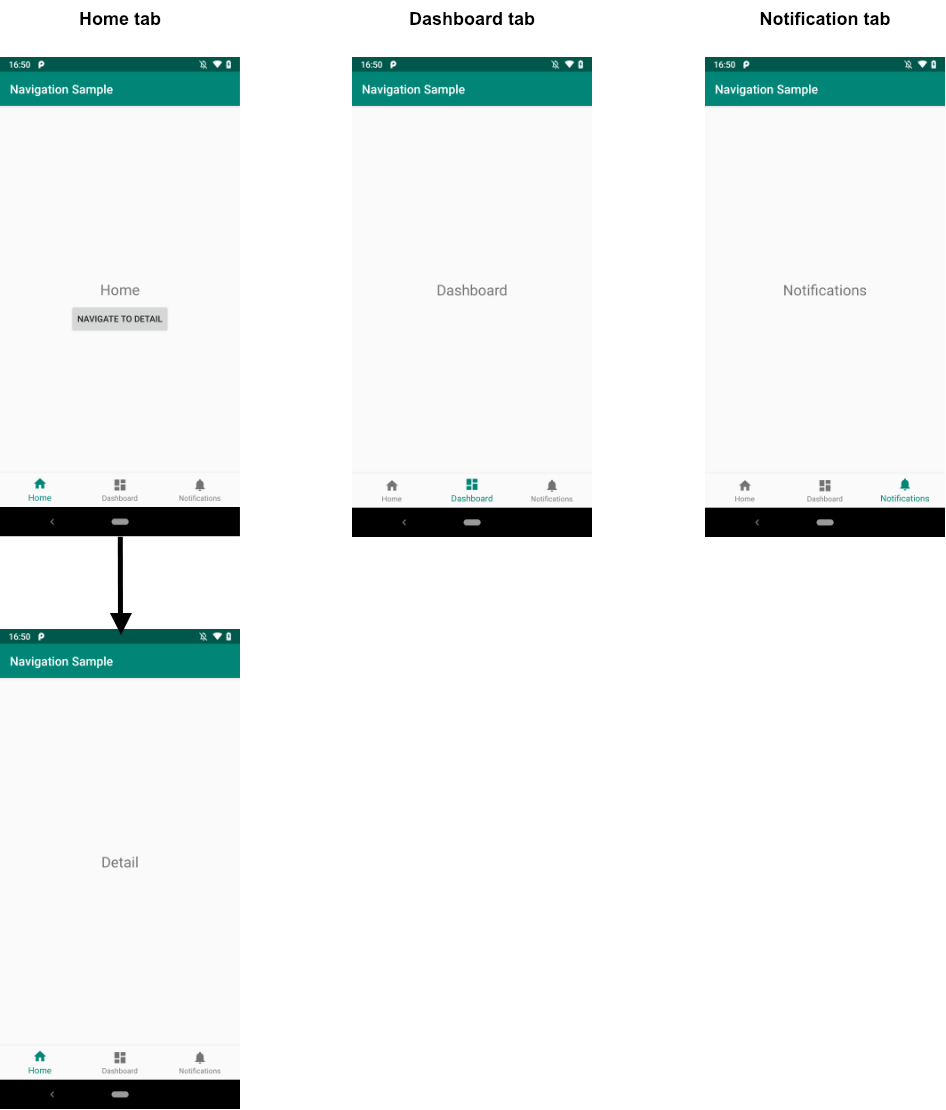
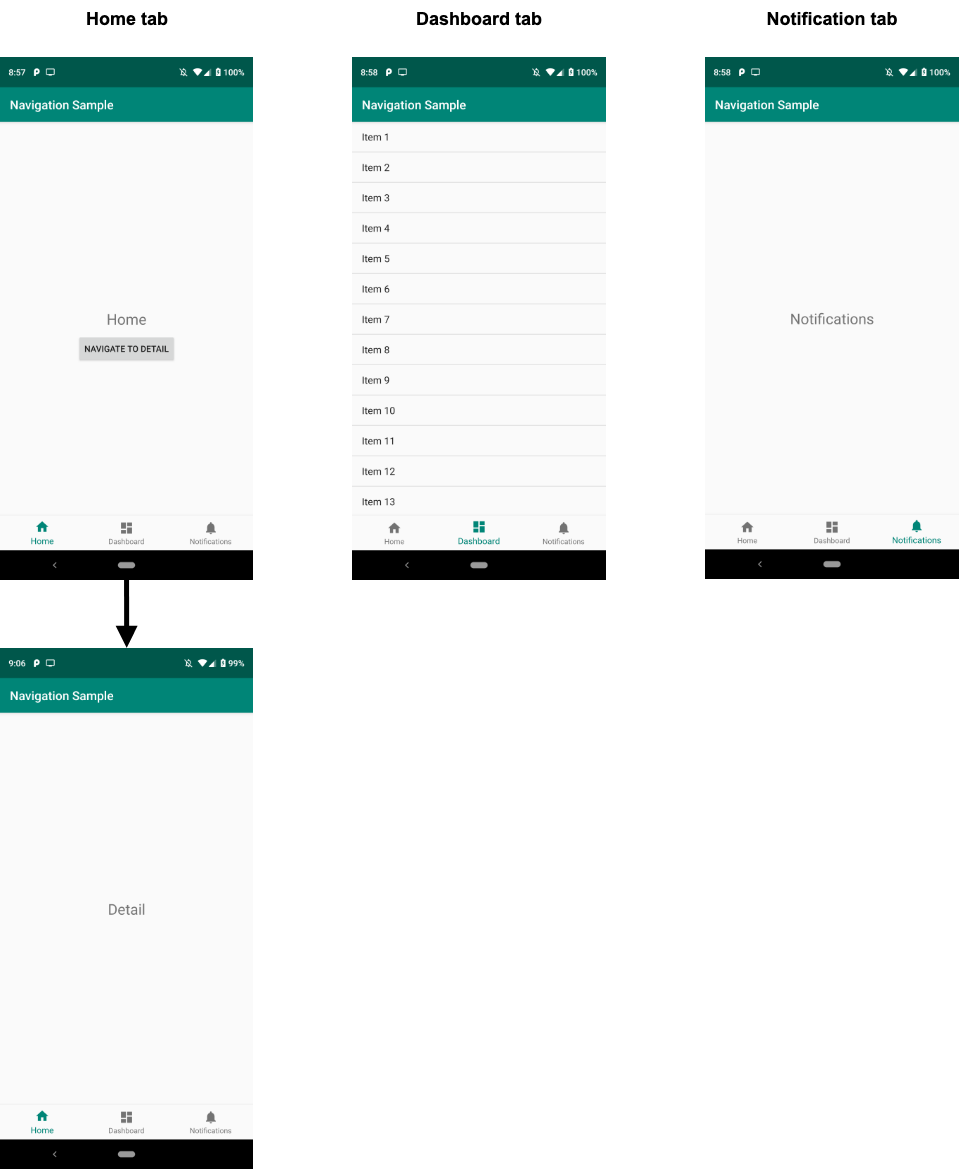
Add RecyclerView sample

diff --git a/app/src/main/java/com/star_zero/navigation_keep_fragment_sample/DashboardAdapter.kt b/app/src/main/java/com/star_zero/navigation_keep_fragment_sample/DashboardAdapter.kt
@@ -1,0 +1,36 @@
+package com.star_zero.navigation_keep_fragment_sample
+
+import android.view.LayoutInflater
+import android.view.View
+import android.view.ViewGroup
+import android.widget.TextView
+import androidx.recyclerview.widget.DiffUtil
+import androidx.recyclerview.widget.ListAdapter
+import androidx.recyclerview.widget.RecyclerView
+
+class DashboardAdapter: ListAdapter<String, DashboardAdapter.ViewHolder>(DIFF_CALLBACK) {
+
+    override fun onCreateViewHolder(parent: ViewGroup, viewType: Int): ViewHolder {
+        val inflater = LayoutInflater.from(parent.context)
+        val view = inflater.inflate(android.R.layout.simple_list_item_1, parent, false)
+        return ViewHolder(view)
+    }
+
+    override fun onBindViewHolder(holder: ViewHolder, position: Int) {
+        holder.itemView.findViewById<TextView>(android.R.id.text1).text = getItem(position)
+    }
+
+    class ViewHolder(view: View): RecyclerView.ViewHolder(view)
+
+    companion object {
+        private val DIFF_CALLBACK = object: DiffUtil.ItemCallback<String>() {
+            override fun areItemsTheSame(oldItem: String, newItem: String): Boolean {
+                return oldItem == newItem
+            }
+
+            override fun areContentsTheSame(oldItem: String, newItem: String): Boolean {
+                return oldItem == newItem
+            }
+        }
+    }
+}

diff --git a/app/src/main/java/com/star_zero/navigation_keep_fragment_sample/DashboardFragment.kt b/app/src/main/java/com/star_zero/navigation_keep_fragment_sample/DashboardFragment.kt
@@ -6,6 +6,8 @@ import android.view.LayoutInflater
 import android.view.View
 import android.view.ViewGroup
 import androidx.fragment.app.Fragment
+import androidx.recyclerview.widget.DividerItemDecoration
+import androidx.recyclerview.widget.LinearLayoutManager
 import com.star_zero.navigation_keep_fragment_sample.databinding.FragmentDashboardBinding
 
 class DashboardFragment : Fragment() {
@@ -20,5 +22,17 @@ class DashboardFragment : Fragment() {
     override fun onCreateView(inflater: LayoutInflater, container: ViewGroup?, savedInstanceState: Bundle?): View? {
         binding = FragmentDashboardBinding.inflate(inflater, container, false)
         return binding.root
+    }
+
+    override fun onActivityCreated(savedInstanceState: Bundle?) {
+        super.onActivityCreated(savedInstanceState)
+
+        val adapter = DashboardAdapter()
+        binding.recycler.layoutManager = LinearLayoutManager(requireContext())
+        binding.recycler.addItemDecoration(DividerItemDecoration(requireContext(), DividerItemDecoration.VERTICAL))
+        binding.recycler.adapter = adapter
+
+        val data = (1..50).map { "Item $it" }
+        adapter.submitList(data)
     }
 }
